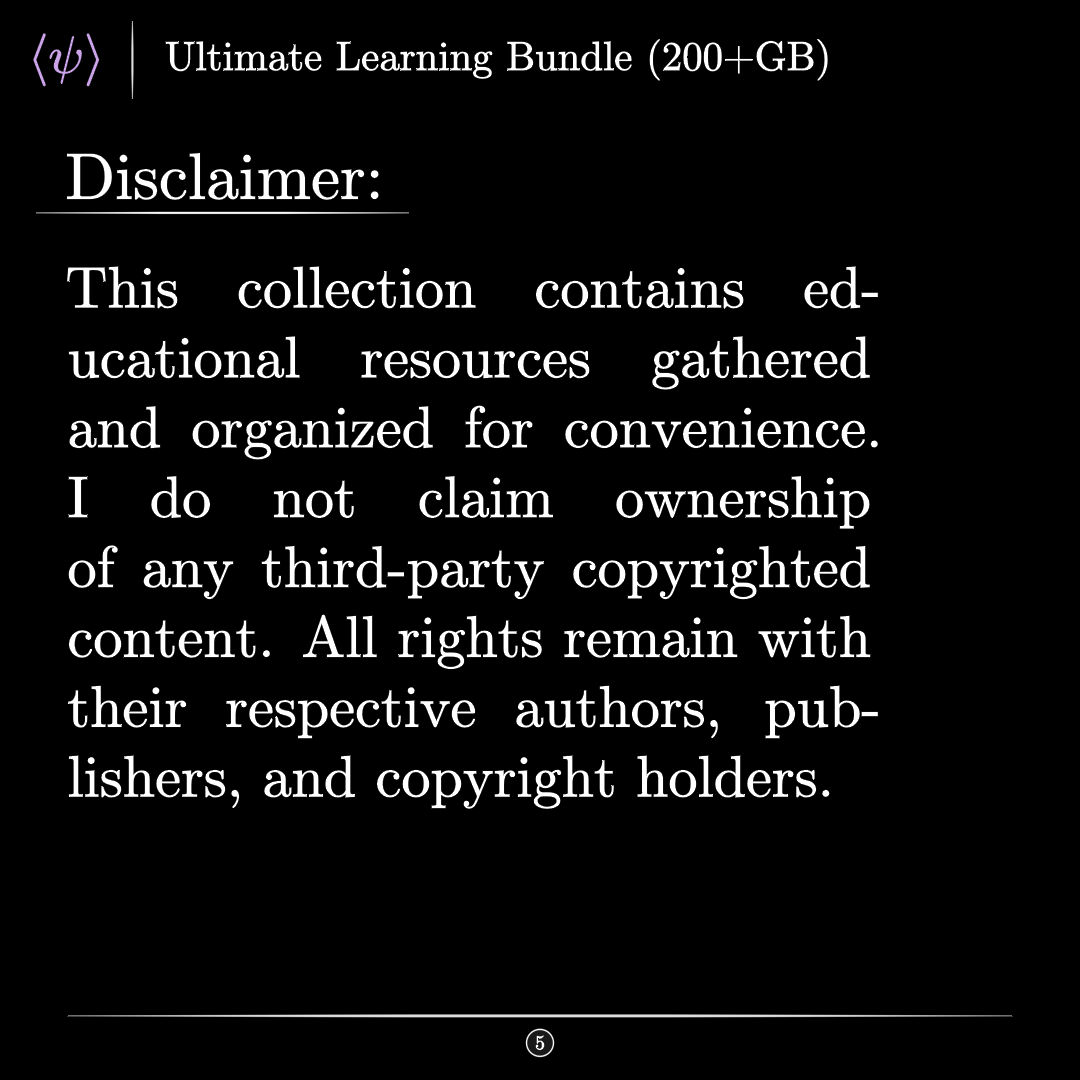
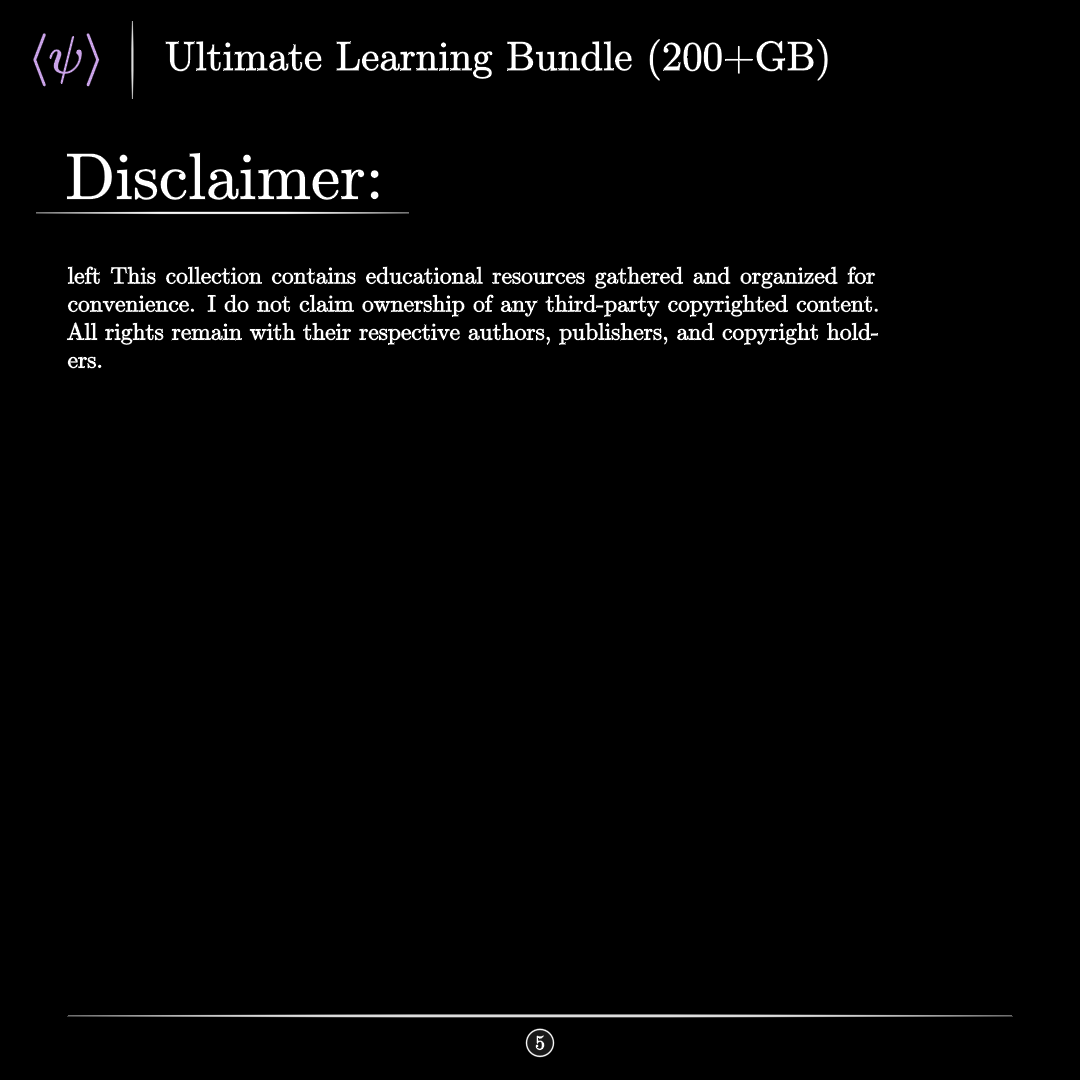
f

diff --git a/test.py b/test.py
@@ -243,13 +243,11 @@ class Dis(PaidTemplate):
         self.add(t, under)
         dis = TexText(
             R"""
-            \begin{minipage}{0.4\textwidth}
             This collection contains educational resources gathered and organized
             for convenience. I do not claim ownership of any third-party copyrighted
             content. All rights remain with their respective authors, publishers,
             and copyright holders.
-            \end{minipage}
-            """, alignment=R"\flushleft"
+            """, alignment="left"
         )
         dis.set_width(FRAME_WIDTH - 2)
         dis.next_to(t, DOWN, buff=MED_LARGE_BUFF, aligned_edge=LEFT)
